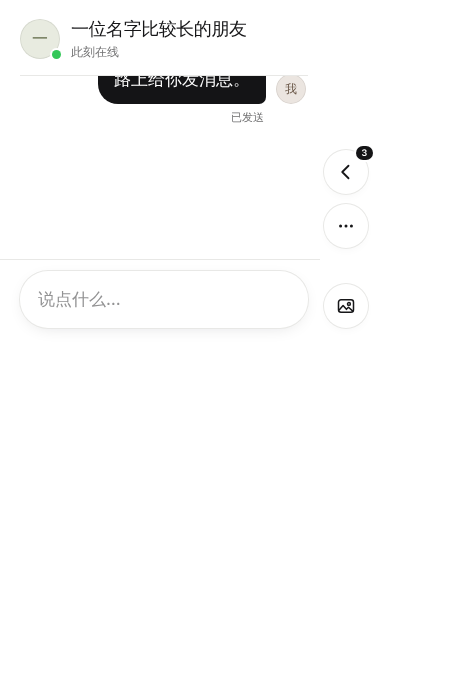
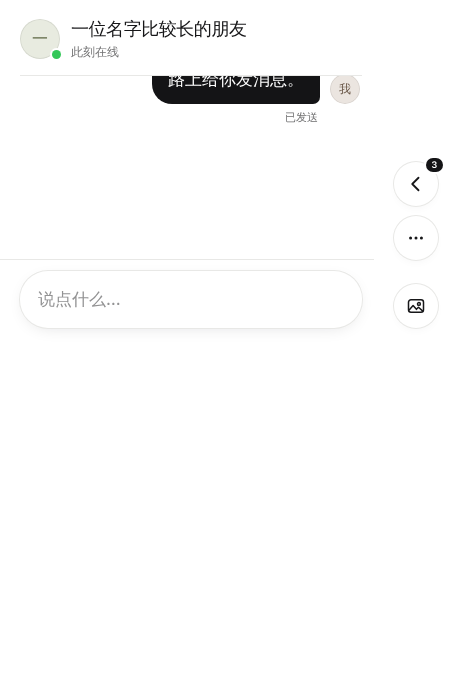
fix: put the Duo rail in the system's edge column (#14)
On the outer display iOS keeps its own column down the right edge for the
status bar and Dynamic Island (right inset ~84pt on device). The rail sat
inside the safe area, beside that column, so two columns ate the right third
of the screen and the list's filter button covered row timestamps.

- viewport.js flags data-edge-column when upright with a right inset of 64pt
  or more (regular iPhones have none in portrait).
- duo-layout.css: --rail-right / --rail-content per pane and overlay; with an
  edge column the rail centres under the status bar and content runs up to
  the inset. Column top reserve 150 -> 162px.
- list.css: the vertical-bars list no longer subtracts the inset from its
  right padding.
- safe-layout e2e asserts the rail joins the system column there and stays
  inside the safe area elsewhere.

Claude-Session: https://claude.ai/code/session_01QwCyzn2E1pAHzUAwL5xAq1

diff --git a/public/css/duo-layout.css b/public/css/duo-layout.css
@@ -17,8 +17,24 @@
   --rail-gap: 12px;
   /* Camera + status bar at the top of the column on the outer display;
      status bar alone on the inner display (its camera hides when inactive). */
-  --rail-reserve-outer: 150px;
+  --rail-reserve-outer: 162px;
   --rail-reserve-inner: 104px;
+}
+/* Where the column goes. Without a column of the system's own, the rail
+   takes its place inside the safe area and content stops beside it
+   (--rail-content). Upright on the outer display, iOS keeps a column down the
+   right edge for the status bar and the Dynamic Island, reported as the right
+   inset (84pt, its centre 50pt in from the edge, measured on device): the
+   rail joins that column, centred under the status bar, and content runs up
+   to the inset like everywhere else. Computed per pane and per overlay so a
+   column beside the fold uses its own insets. */
+.pane, .overlays, .viewer, .draw, .call {
+  --rail-right: calc(var(--safe-right) + var(--rail-inset));
+  --rail-content: calc(var(--rail-right) + var(--rail-w) + var(--rail-gap));
+}
+:root[data-edge-column] :is(.pane:not([data-role="leading"]), .overlays, .viewer, .draw, .call) {
+  --rail-right: max(4px, calc(var(--safe-right) - 34px - var(--rail-w) / 2));
+  --rail-content: max(calc(var(--safe-right) + var(--margin)), calc(var(--rail-right) + var(--rail-w) + var(--rail-gap)));
 }
 .pane { --rail-reserve: var(--rail-reserve-outer); --rail-foot: 14px; }
 .shell[data-layout="split"] .pane { --rail-reserve: var(--rail-reserve-inner); }
@@ -81,7 +97,7 @@
   z-index: calc(var(--z-chrome) + 1);
   top: max(var(--safe-top), var(--rail-reserve));
   bottom: max(var(--safe-bottom), var(--rail-foot));
-  right: calc(var(--safe-right) + var(--rail-inset));
+  right: var(--rail-right);
   width: var(--rail-w);
   display: none;
   flex-direction: column;
@@ -96,7 +112,7 @@
 
 /* ---------------------------------------------------------------- conversation */
 .thread { --head-top: 12px; --head-h: max(64px, calc(2.6rem + 16px)); --content-right: calc(var(--safe-right) + var(--margin)); }
-.thread[data-bars="vertical"] { --content-right: calc(var(--safe-right) + var(--rail-inset) + var(--rail-w) + var(--rail-gap)); }
+.thread[data-bars="vertical"] { --content-right: var(--rail-content); }
 
 /* The heading is content: avatar, name and status at the top of the
    conversation, beside the column; with horizontal bars it shares the top
@@ -214,7 +230,7 @@
 :root[data-bars="vertical"] .viewer-bar.top {
   top: max(var(--safe-top), var(--rail-reserve));
   left: auto;
-  right: calc(var(--safe-right) + var(--rail-inset));
+  right: var(--rail-right);
   width: var(--rail-w);
   flex-direction: column;
   align-items: center;
@@ -226,22 +242,22 @@
   top: auto;
   bottom: max(var(--safe-bottom), var(--rail-foot));
   left: auto;
-  right: calc(var(--safe-right) + var(--rail-inset));
+  right: var(--rail-right);
   width: var(--rail-w);
   flex-direction: column;
   gap: 10px;
   padding: 0;
 }
-:root[data-bars="vertical"] .viewer-bar.viewer-gallery-bottom { right: calc(var(--safe-right) + var(--rail-inset) + var(--rail-w)); }
+:root[data-bars="vertical"] .viewer-bar.viewer-gallery-bottom { right: calc(var(--rail-right) + var(--rail-w)); }
 
 /* Drawing: Close, then Send (a symbol here: text stays in horizontal bars),
    then Undo and Clear; the colours and sizes stay with the paper. */
-:root[data-bars="vertical"] .draw { --draw-column: calc(var(--safe-right) + var(--rail-inset) + var(--rail-w) + var(--rail-gap)); }
+:root[data-bars="vertical"] .draw { --draw-column: var(--rail-content); }
 :root[data-bars="vertical"] .draw-head {
   position: absolute;
   z-index: 2;
   top: max(var(--safe-top), var(--rail-reserve));
-  right: calc(var(--safe-right) + var(--rail-inset));
+  right: var(--rail-right);
   width: var(--rail-w);
   display: flex;
   flex-direction: column;
@@ -258,7 +274,7 @@
   position: absolute;
   z-index: 2;
   top: calc(max(var(--safe-top), var(--rail-reserve)) + 118px);
-  right: calc(var(--safe-right) + var(--rail-inset));
+  right: var(--rail-right);
   width: var(--rail-w);
   flex-direction: column;
   align-items: center;
@@ -280,7 +296,7 @@
   position: absolute;
   z-index: 3;
   top: max(var(--safe-top), var(--rail-reserve));
-  right: calc(var(--safe-right) + var(--rail-inset) - 6px);
+  right: calc(var(--rail-right) - 6px);
   flex-direction: column;
   justify-content: flex-start;
   gap: 16px;
@@ -288,6 +304,6 @@
 }
 :root[data-bars="vertical"] .call-controls .hang,
 :root[data-bars="vertical"] .call-incoming .hang { order: -1; }
-:root[data-bars="vertical"] .call-stage { padding-right: calc(var(--safe-right) + var(--rail-inset) + 64px); }
-:root[data-bars="vertical"] .call-head { left: calc(var(--margin) + var(--safe-left)); right: calc(var(--safe-right) + var(--rail-inset) + 76px); text-align: left; }
+:root[data-bars="vertical"] .call-stage { padding-right: var(--rail-content); }
+:root[data-bars="vertical"] .call-head { left: calc(var(--margin) + var(--safe-left)); right: calc(var(--rail-content) + 12px); text-align: left; }
 :root[data-bars="vertical"] .call-local { top: auto; right: auto; bottom: calc(max(var(--safe-bottom), 14px) + 4px); left: calc(var(--margin) + var(--safe-left)); }

diff --git a/public/js/ui/viewport.js b/public/js/ui/viewport.js
@@ -25,6 +25,8 @@ const vv = window.visualViewport
 const SPLIT_MIN = 700
 // Height below which a portrait window has no room for top and bottom bars.
 const TALL_MIN = 760
+// A right inset this wide is a column the bars can share (the rail is 52pt).
+const EDGE_COLUMN_MIN = 64
 const listeners = new Set()
 const barListeners = new Set()
 let layout = null
@@ -53,6 +55,11 @@ function measure() {
   // The column stays with the hardware: on the outer display in landscape the
   // camera is at its foot rather than its head (see duo-layout.css).
   root.dataset.orientation = window.innerWidth > window.innerHeight ? 'landscape' : 'portrait'
+  // Upright, the outer display keeps a column of its own down the right edge
+  // for the status bar and the Dynamic Island, reported as a wide right
+  // safe-area inset; no other iPhone has one in portrait. Bars join it.
+  if (window.innerWidth < window.innerHeight && insetRight() >= EDGE_COLUMN_MIN) root.dataset.edgeColumn = ''
+  else delete root.dataset.edgeColumn
   if (nextBars !== bars) {
     bars = nextBars
     root.dataset.bars = bars
@@ -158,6 +165,17 @@ export function emulateFold(options = null) {
 
 export function getFold() {
   return { ...fold }
+}
+
+let insetProbe = null
+function insetRight() {
+  if (!insetProbe) {
+    insetProbe = document.createElement('div')
+    insetProbe.setAttribute('aria-hidden', 'true')
+    insetProbe.style.cssText = 'position:fixed;visibility:hidden;pointer-events:none;top:0;left:0;height:0;width:var(--safe-right)'
+    document.body.append(insetProbe)
+  }
+  return insetProbe.offsetWidth
 }
 
 function hasTextFocus() {

diff --git a/public/css/columns.css b/public/css/columns.css
@@ -5,7 +5,7 @@
 
 /* ---------------------------------------------------------------- sidebar */
 .pane-sidebar { --side-inset: 22px; --content-right: calc(var(--safe-right) + var(--side-inset)); background: var(--paper); }
-.pane-sidebar[data-bars="vertical"] { --content-right: calc(var(--safe-right) + var(--rail-inset) + var(--rail-w) + var(--rail-gap)); }
+.pane-sidebar[data-bars="vertical"] { --content-right: var(--rail-content); }
 .pane-sidebar[data-bars="vertical"] > .duo-rail { display: flex; }
 .side-scroll { padding: calc(var(--safe-top) + 26px) var(--content-right) calc(max(var(--safe-bottom), 16px) + 24px) calc(var(--safe-left) + var(--side-inset)); }
 .pane-sidebar[data-bars="horizontal"]:not([data-layout="leading"]) .side-scroll { padding-top: calc(var(--safe-top) + 72px); }
@@ -73,7 +73,7 @@
 .pane-artifact { background: var(--bg); }
 .art-body { position: absolute; inset: 0; }
 .art-body[data-kind="info"] { --content-right: calc(var(--safe-right) + var(--margin)); }
-.art-body[data-bars="vertical"] { --content-right: calc(var(--safe-right) + var(--rail-inset) + var(--rail-w) + var(--rail-gap)); }
+.art-body[data-bars="vertical"] { --content-right: var(--rail-content); }
 .art-body[data-bars="vertical"] > .duo-rail { display: flex; }
 /* No heading: Close (or Back) alone, above the profile with horizontal
    bars, in the trailing column with vertical ones. */

diff --git a/public/css/list.css b/public/css/list.css
@@ -240,9 +240,9 @@ mark { background: none; color: var(--blue); }
 /* Folded (and wherever bars are vertical), the list's bars run down the
    trailing edge and the content takes the space beside them. Search is a
    button there; the field opens above the list while searching. */
-.pane-list[data-bars="vertical"] { --content-right: calc(var(--safe-right) + var(--rail-inset) + var(--rail-w) + var(--rail-gap)); }
+.pane-list[data-bars="vertical"] { --content-right: var(--rail-content); }
 .pane-list[data-bars="vertical"] .list-topbar { right: var(--content-right); }
-.pane-list[data-bars="vertical"] .list-scroll { padding-right: calc(var(--content-right) - var(--safe-right) - 10px); padding-bottom: calc(var(--safe-bottom) + 28px); }
+.pane-list[data-bars="vertical"] .list-scroll { padding-right: calc(var(--content-right) - 10px); padding-bottom: calc(var(--safe-bottom) + 28px); }
 .pane-list[data-bars="vertical"] .list-head { padding-right: calc(var(--safe-left) + 12px); }
 .pane-list[data-bars="vertical"] .list-bottombar { top: calc(var(--safe-top) + 12px); bottom: auto; right: var(--content-right); }
 .pane-list[data-bars="vertical"]:not(.search-open):not(.searching) .list-bottombar { visibility: hidden; }

diff --git a/design-qa.md b/design-qa.md
@@ -133,3 +133,14 @@ final result: passed
 | 截图矩阵 `duo-screenshots.mjs`（Chromium；此环境没有 WebKit） | 8 种视口均无横向溢出；占满视口的固定层是按可视视口（`--vvh`，回退 `100dvh`）定高的应用外壳与弹层层，不是 `100vh` |
 | 登录后的矩阵与过渡 | `strip.cjs`：951×669 / 890×626 打开时两栏等宽、间隙正好在折痕；其余视口单栏；栏轴、44pt 与安全区；宽度 466 ↔ 951 逐步拖动时不误判键盘、对话保持焦点、表单始终在一侧 |
 | Safari 没有折叠 API | 栏带与分侧只依赖宽度；视口分段只用于 Chromium 上的半折细化（渐进增强） |
+
+## 真机修正：控制列并入系统列
+
+真机截图（外屏 466×678@3x）显示：iOS 在右缘留出一列给状态栏与灵动岛，右侧安全区约 84pt，状态栏中心距右缘约 50pt、
+底部约在 148pt。之前的控制列放在安全区之内，于是右侧出现两列（系统列 + 控制列），内容只剩约 300pt，列表的时间被筛选按钮压住。
+
+- `ui/viewport.js`：竖放且右侧安全区 ≥ 64pt 时设 `data-edge-column`（普通 iPhone 竖放时右侧安全区为 0）。
+- `duo-layout.css`：`--rail-right` / `--rail-content` 按栏与弹层分别计算；有系统列时控制列居中在状态栏下方
+  （距右缘 安全区 − 34pt），内容延伸到安全区加一个页边距；没有时保持原样。列顶预留从 150 调到 162px，与状态栏留出间隙。
+- 列表在垂直栏时的右内边距不再减去安全区（这是时间被压住的原因）。
+- `safe-layout.cjs`：外屏竖放（右侧 84pt）时断言控制列居中在系统列、内容延伸到安全区；其他情况仍要求控制列在安全区内。
